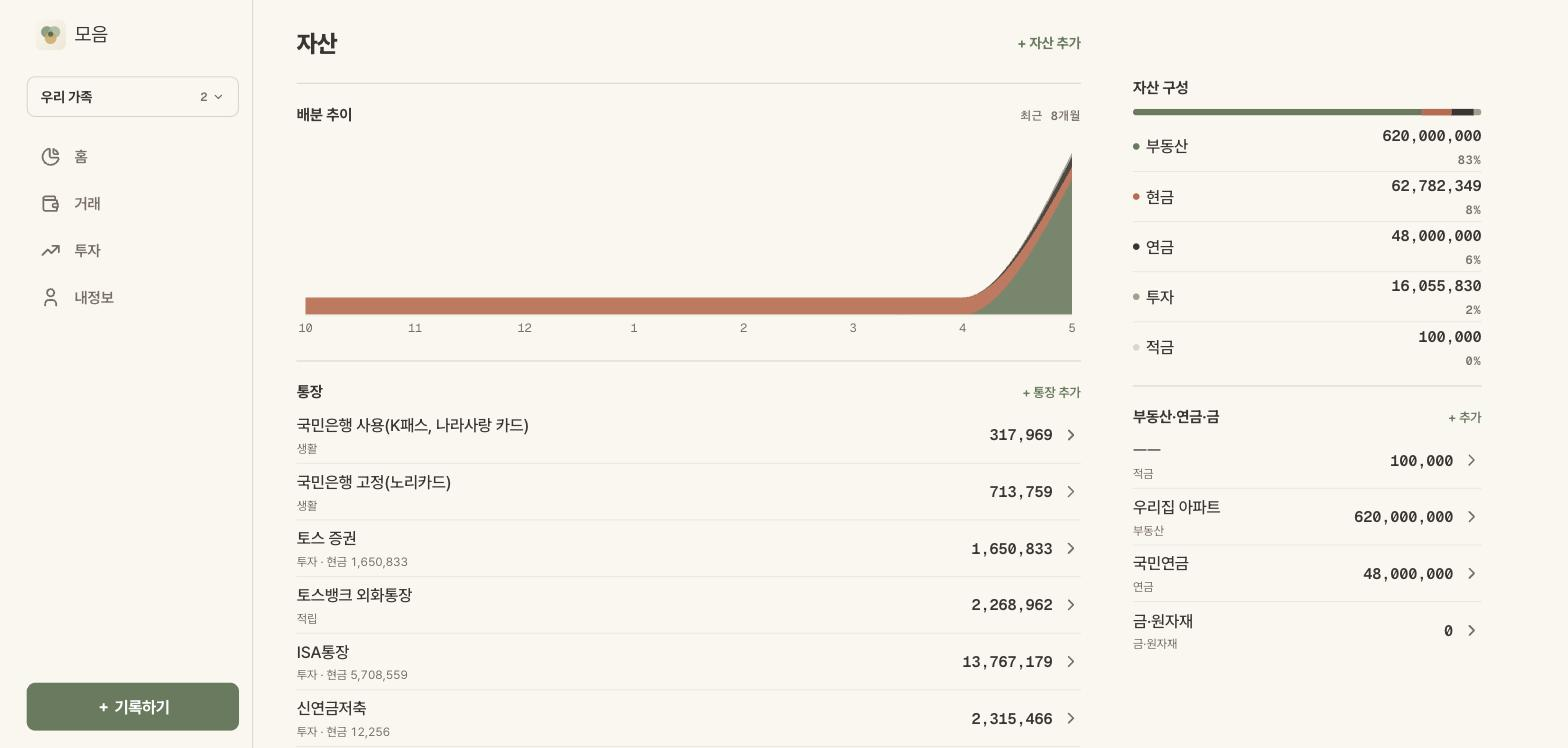
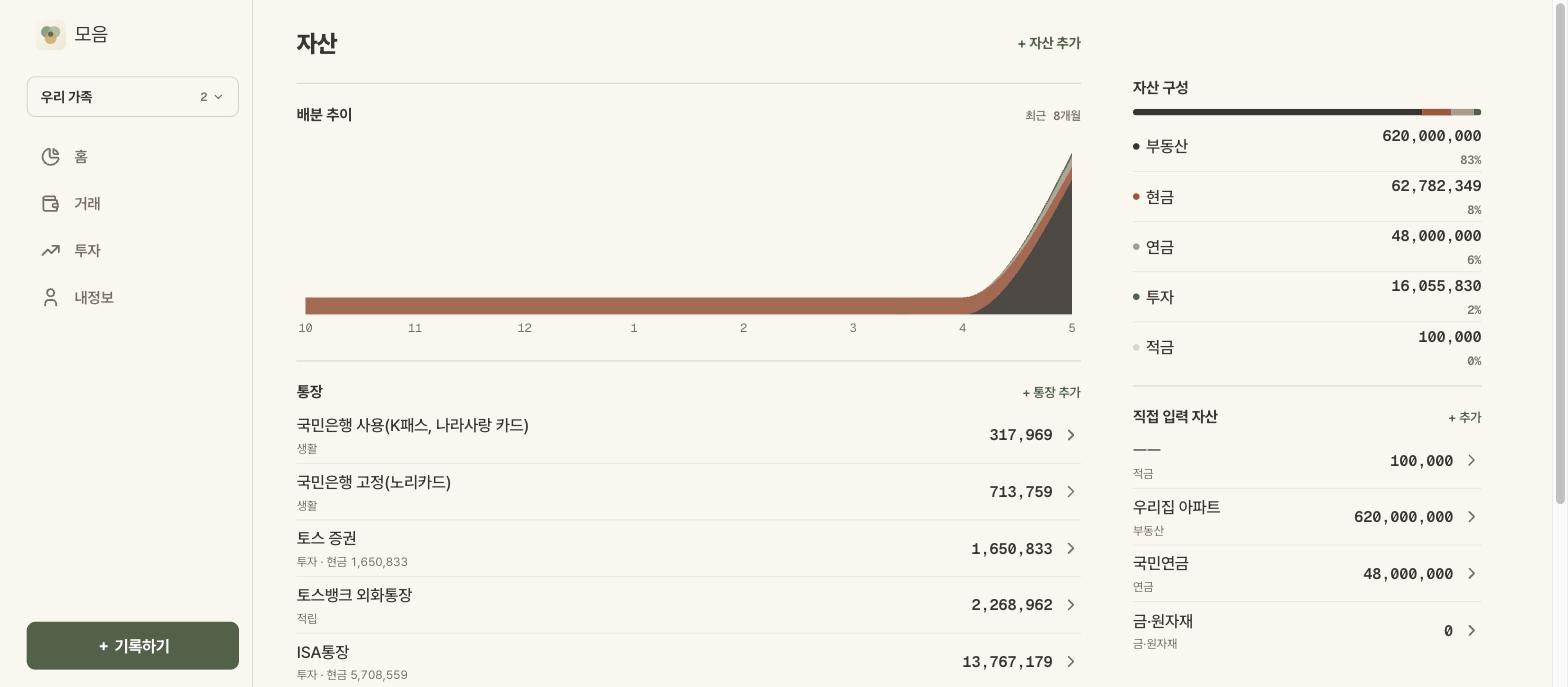
docs: 리디자인 배치2 S6 QA 결과·DESIGN 규칙·shot 갱신
qa/2.md 대조표와 픽스 검증, status S6 통과 기록. DESIGN.md 에 라이트 의미색 AA 셰이드,
자산군 고정 차트색, 시트·탭바 z 순서, 상태·AccentLink·모노 라벨 규칙 반영. shot 7장 재촬영.

diff --git a/docs/design/redesign-20260911/qa/2.md b/docs/design/redesign-20260911/qa/2.md
@@ -1,0 +1,71 @@
+# QA redesign-20260911 배치2 — 2026-09-12 @29fa6e7(감사) · 픽스 38814e6 · 82ac282 (사용자 ✅)
+토큰 신규 위반: 0(baseline 88 유지) · design-review(감사만 — clean tree 였지만 자동 커밋은 `/commit` 룰과 충돌, 배치1 과 같은 방식): **blocking 6 / 수정 17 / 보류 8** → 사용자 "전부" 결정, blocking 6 + 수정 17 처리 · 보류 중 H-1·H-7 결정 반영(나머지 6 은 문서 정정·배치3·기각) · typecheck 0 · lint 0 · 콘솔 에러 0(배치2 6경로 + 배치1 4화면 회귀, 390 iframe · 1440) · 가로 스크롤 0
+외부 시각: Codex(소스 감사 15건) + Claude 서브에이전트(일관성 12건) — 겹친 것: 상태(로딩·에러·빈) 미구현 · 추이선 0 변화 빨강 · 아이콘 버튼 44 미만 · 배분 차트 모바일 높이 · 삭제 버튼 색 · 문구 톤
+디자인 점수: 감사 전 B-(시안 불일치 3 · 상태 미구현) → 픽스 후 A-(남은 것 = 보류 8, 대비 토큰 H-1 이 가장 큼) · AI slop A(카드 0 · 그라데이션 0 · 3열 아이콘 그리드 0) · Litmus 7개 중 YES 6(카드 = 거래 라우트 fallback Card 1장, 배치3)
+
+## 대조표
+| ID | handoff | shot | 차이 | 판정 |
+|---|---|---|---|---|
+| invest/account | handoff/2/shots/Main.png · AccountDesktop.png | shots/invest-account.jpg · invest-account-desktop.jpg(재촬영) | 배치 일치. 종목 0 → 종목 비중 숨김(B-2 ✅) · 보유 종목 sub `▲ 17.0%` 로 평단 안 잘림(F-204 ✅) · 추이 -0.7% 완만(F-205 ✅) | ✅ |
+| invest/portfolio | Stock.png · StockDesktop.png (정본 Figma 45:130) | shots/invest-portfolio.jpg · invest-portfolio-desktop.jpg(재촬영) | hero 라벨·매매 행 색 Figma 일치 · "매매 내역"(B-6 ✅) · 칩 34~51px(F-202 ✅) · 뒤로 44(제목 위치 52 그대로) · 데스크톱 레일 요약 = 매입금액만(의도적, API 에 종목별 실현손익 누적 없음) | ✅ |
+| transactions/new | RecordSheet.png · RecordModalDesktop.png (정본 Figma 46:451) | shots/transactions-new.jpg(재촬영, 지출·이체) · 데스크톱 DOM 실측(560 · r12 · 가운데) | 시트가 탭바를 덮음(B-3 ✅, (100,820) = overlay) · 내용 높이로 줄고 푸터 바닥 16 위(F-217 ✅) · 다이얼로그 이름 "거래 추가" h2(F-201 ✅) · 금액 빈칸 + placeholder 0(F-215 ✅) · 세그 4개(의도적) · 금액 좌정렬 = Figma(H-2) · 통장 0개 안내(B-4 ✅, 코드) | ✅ |
+| wealth | Wealth.png · WealthDesktop.png (정본 Figma 46:195) | shots/wealth.jpg · wealth-desktop.jpg(재촬영) | 자산군 고정 색 = handoff 와 같음(부동산 짙은색·현금 테라코타·연금 회색·투자 세이지, B-1 ✅ — 홈 자산 구성도 같이) · 배분 추이 모바일 200(B-5 ✅) · 툴팁 글자 본문색 + 점(F-209 ✅) · 자산 행 "갱신일"·통장 "N종목" 없음(의도적, API 필드 없음) | ✅ |
+| 공통 상태 | States.png | 렌더 확인(390 iframe) | 로딩 = `SectionSkeleton`(페이지 hero+행 3 · 추이 차트 자리) · 에러 = `SectionBoundary` — 스냅샷 API 를 500 으로 막으니 "자산 추이 · 불러오지 못했어요 다시 시도", hero·보유 종목은 그대로 → 다시 시도로 복구 확인 · 빈 = "~없어요" 톤 통일 | ✅ |
+
+## blocking — 시안·계획 불일치
+| # | 발견 | 출처 | 수정안 |
+|---|---|---|---|
+| B-1 | 자산군 색이 **현재 비중 순위**(`chartColor(i)`)라, DESIGN §2-4 고정 매핑(chart-1 투자 · 2 현금 · 3 부동산 · 4 연금 · 5 기타)과 handoff 와 다름. 순위가 바뀌면 과거 추이 색 의미도 바뀜. 5위는 트랙색(hair)이라 빈 막대처럼 보임 | 나 · codex | `assetClassColor(c)` 고정 매핑 → wealth 구성 막대·행·배분 추이 + **홈 자산 구성(배치1)** 같이. 종목(StockShares)은 자산군이 아니라 순위 유지 |
+| B-2 | 종목 0 인 투자 계좌에서 종목 비중이 "현금 100%" 로 나옴(plan: 숨김) | 나 · subagent | account-portfolio-section: 활성 종목 0 이면 StockShares 렌더 안 함 |
+| B-3 | 기록 시트(모든 FormSheet)가 탭바(z500) 아래(z200)라 스크림 위로 탭바가 뜨고, 시트는 탭바 높이만큼 본문을 띄워 보정 중 | 나 | Drawer `zIndex` 를 탭바 위(600)로 올리고 `--bottom-tab-h` 보정(maxHeight·body padding·FormActions sticky bottom) 제거. FAB(150)은 그대로 시트 아래 |
+| B-4 | plan 상태 3종 미구현: 로딩 스켈레톤 · 섹션 에러 재시도 · 통장 0개 거래 폼 안내 | 나 · codex · subagent | 공용 `SectionSkeleton`(hero 28 + 행 3) · `SectionBoundary`(QueryErrorResetBoundary + EmptyText "불러오지 못했어요 · 다시 시도") **신규 컴포넌트 2개(승인 필요)** + 폼 통장 0개 EmptyText(+ 통장 추가) |
+| B-5 | 배분 추이 모바일 140px(plan·handoff 200) | codex · 나 | allocation-trend-chart 만 높이 200 고정 |
+| B-6 | 종목 상세 섹션 제목 "거래내역" ≠ Figma 45:130 "매매 내역" | 나 | ko/en 키 `portfolio.trade_history` 추가 |
+
+## 수정 — 품질(시안은 맞음)
+| # | 발견 | 심각도 | 출처 | 수정안 |
+|---|---|---|---|---|
+| F-201 | FormSheet 다이얼로그에 접근 가능한 이름 없음(제목이 일반 Text) | high(a11y) | codex | 제목 Text 에 id + Drawer `aria-labelledby` |
+| F-202 | 기간 칩 가로 22~31px(DESIGN 칩 히트 ≥32) — "전체" 22 | medium | 나 | FilterChip `paddingInline 6 · marginInline -6`(글자 위치 유지). 거래 필터 칩도 같이 |
+| F-203 | 추이선 마지막 점·라벨이 변화 0 에도 up(빨강) | medium | 나 · subagent | trend-line `last-prev >= 0` → `signColor(last-prev, "asset")` |
+| F-204 | 부호·% 표기가 한 화면에 4종(`▲ 765,900 +10.5%` · `+292,920 (▲ 17.01%)` · `-1.29%` · `-0.7%`) + 390 에서 보유 종목 메타 "평균 28…" 잘림 | medium | 나 · subagent | 보유 종목 sub = `fmtArrowPct(rate, 1)` 만(plan ⑦ "손익 ▲▼ %") · % 소수 1자리로 통일 |
+| F-205 | -0.7% 변화가 급락처럼 보임 — `trendYDomain` 이 변동폭 기준 패딩이라 작은 변화도 차트 높이 40% | medium(데이터 정직) | 나 | 패딩 하한 `max * 0.03` (TrendLine 쓰는 투자 메인·계좌·종목 추이 같이 바뀜, 홈 스파크라인은 별도라 무관) |
+| F-206 | 비활성 매도 버튼이 파란 글자 그대로(인라인 `c` 가 disabled 색 덮음) | medium | subagent | `c={canSell ? semanticColor("down") : undefined}` |
+| F-207 | 매도 행 실현손익이 meta 와 sub 에 두 번 | medium | subagent | Figma 45:130 대로 메타("· 실현 −X")만 두고 우측 sub 제거 |
+| F-208 | 아이콘 버튼 44 미만: 뒤로 36 · 새로고침 34 | medium | codex · subagent | ActionIcon 44(시각 크기 유지하려면 `::before` 히트 확장, FAB 패턴) |
+| F-209 | 배분 툴팁 금액 글자에 차트색 → chart-4/5 대비 2.64/1.43 | medium | codex | 글자 = text, 앞에 6px 색 점 |
+| F-210 | 삭제 버튼 `color="red"`(팔레트 밖) · 전체폭 light(plan: 푸터 좌측 subtle danger) | medium | codex · subagent | `variant="subtle" color="danger"` — 위치 변경은 8개 폼 공통이라 색만 이번에, 위치는 배치3 |
+| F-211 | 문구 톤 "보유 종목이 없습니다" 등 ↔ 다른 빈 상태 "~없어요" | low | 나 · subagent | 배치2 화면 키만: `portfolio.empty_holdings`(계좌 상세) · `no_sell_history`(누적 매매수익 시트) → "~없어요" |
+| F-212 | 투자 메인 오늘 날짜 UTC(`new Date().toISOString()`) — 자정~09시 KST 날짜 어긋남 | low(버그) | subagent | `todayIsoKst()` |
+| F-213 | `semanticColorFor`(portfolio-section) = signColor 복제 | low | subagent | signColor 로 교체 |
+| F-214 | 기간 칩이 개수 기준(1개월 = 최근 2점) — 박제 누락 달 있으면 기간이 늘어남 | low | codex | 날짜로 자르기(`date >= 기준월`) |
+| F-215 | 금액 입력 초기값 "0" 이 실제 값(지우고 입력) | low | 나 | 상태는 숫자 0 유지, 입력칸만 `value={amount || ""}` + placeholder "0"(스키마 무변경) — 새 평가액 칸도 같이 |
+| F-216 | 모노 라벨 `{11/16/.06em}` 인라인 11곳 · accent 헤더 링크 로컬 복붙 3곳 | low(일관성) | subagent | `.moeum-mono.moeum-label` 클래스 + `AccentLink` 공용 — 배치1 D-4 에서 미룬 "유틸 클래스" 흡수 |
+| F-217 | 기록 시트가 내용과 무관하게 늘 90dvh — Mantine `--drawer-height` 가 최대 높이로 풀려 푸터 아래 빈칸(재검증 중 발견) | medium | 나 | FormSheet content `height: auto` → 내용 높이(Figma 46:451 처럼 푸터가 바닥 16 위) |
+
+## 보류 · 결정 필요
+| # | 내용 | 제안 |
+|---|---|---|
+| H-1 | accent 링크 대비 4.35:1 · up 11~14px 4.48:1(AA 4.5 미달, 배치1 부터) + 추가 발견 expense 3.66 · income 4.22 | ✅ **결정(사용자): 한 단계 진하게** — 라이트 accent sage.7 · up danger.7 · expense terracotta.7 · income positive.6(down info.6 유지) + `primaryShade` 라이트 7. 실측 6.21 · 6.01 · 4.99 · 5.71 · 4.80, filled 버튼 흰 글자 6.69. DESIGN §2-2·§2-4 갱신 · Figma 변수 라이트 값 동기화 |
+| H-2 | 금액 입력 정렬: plan "우측" vs Figma 46:451 좌측 | Figma 정본 → 현행 유지, plan/2.md 문구 정정 |
+| H-3 | 추이선 월 축: DESIGN §2-4 "축 없음" vs Figma 25:198·45:130 월 눈금 | Figma 정본 → DESIGN 문구 정정("월 눈금 모노 11 · 축선 hair, 그리드 없음") |
+| H-4 | 매매 시트 submit filled danger/info · trade-form 로컬 `krw`·`gray-6` · 거래 라우트 fallback Card | plan "매매 폼 내부 = 배치3" → 배치3 폼 일괄 |
+| H-5 | 데스크톱 레일 두 벌 렌더(hiddenFrom/visibleFrom) — subagent 가 `useMediaQuery` 제안 | **기각** — 프로젝트 룰(SSR 불일치로 useMediaQuery 레이아웃 분기 금지). 쿼리 키 같아 요청 1회 확인 |
+| H-6 | 테마 shadows xs~lg rgba(palette 밖) | 기존 baseline 88 에 포함. 토큰 정리 때 |
+| H-7 | 수동자산 섹션 제목 "부동산·연금·금" 인데 적금도 들어감 | ✅ **결정(사용자): "직접 입력 자산"** / en "Manual assets" — 거래로 움직이는 통장과 성격 차이를 제목에. 시트 제목도 같이("직접 입력 자산 추가/수정") |
+| H-8 | plan 에 있지만 API 에 없는 필드: 자산 갱신일 · 통장 N종목 · 종목별 실현손익 누적 | 의도적 차이 — plan/2.md 정정. 필요하면 백엔드 후보(배치1 D-2 월간 투자손익과 함께) |
+
+## 룰 구멍 메모
+- S4 에서 Figma 가 plan 과 다르게 정한 것(금액 정렬·월 축)을 plan/DESIGN 에 되돌려 적는 단계가 없어 S6 에서 "시안 불일치" 로 다시 튀어나옴 → S4 체크리스트에 "plan·DESIGN 과 다른 Figma 결정 역반영" 추가 제안.
+- S5 화면 규칙 "빈·로딩·에러 상태 확인" 이 렌더 확인만 요구해서, 로딩·에러를 렌더로 못 만들면 그냥 통과됨(B-4) → "상태 컴포넌트 존재(코드) 확인" 으로 바꾸기 제안.
+- S5 가 DESIGN §2-4 색 매핑 대신 배치1 홈의 순위 규칙을 따라감(B-1) — 배치1 S6 도 못 잡음. 대조표 "차이" 열에 **색 매핑** 항목 고정 제안.
+- design-review 기본 터치 기준 44 vs DESIGN 텍스트 링크·칩 32 예외 — 감사 스크립트 기준을 32 로 두고 아이콘 버튼만 44 로 따로 봐야 오탐이 없음.
+- 백그라운드 탭에서 zoom 캡처가 탭바(fixed)를 가끔 빼먹음 → 겹침 판정은 `elementFromPoint` 로.
+- 백그라운드 탭 iframe 에선 React Query 재시도가 `paused`(document hidden) · 연쇄 타이머 1분 단위 → 에러 상태 검증은 iframe `visibilityState` 를 visible 로 덮고 `visibilitychange` 발사.
+- dev 서버가 몇 시간 뒤 파일 감시를 놓침(touch 도 무반응) → 픽스 재검증 전 "변경한 토큰이 computed 에 반영됐는지" 1회 확인 후 아니면 재시작(배치1 SSR 500 메모와 같은 계열).
+
+## 픽스 검증 (2026-09-12, 38814e6 · 82ac282)
+typecheck 0 · lint 0 · 토큰 신규 0(baseline 88) · 콘솔 에러 0(9경로 390, dev 서버 재시작 후 재확인 — 파일 감시가 멈춰 H-1 변경이 안 잡혔던 것) · H-1 실측 accent 6.21 · up 6.01 · income 5.71 · expense 4.99 · down 4.80 · 버튼 흰 글자 6.69 · shots 7장 H-1 반영 후 재촬영(wealth · wealth-desktop · invest-account · invest-account-desktop · invest-portfolio · invest-portfolio-desktop · transactions-new)
+신규 공용: `SectionSkeleton` · `SectionBoundary` · `AccentLink`(section 12/600 · header 13/700) · `.moeum-mono.moeum-label` · `ASSET_CLASS_COLOR`(portfolio/constants.ts — 옛 hex 매핑 자리를 재사용, 삭제 후보에서 빠짐)
+공통 영향: 탭바 z 500→190 · 시트 탭바 보정 제거(FormSheet·FormActions·가계부 전환 Drawer) · % 기본 소수 1자리(fmtSignedPct·fmtArrowPct — 홈 "+6.1%" 등 배치1 화면도) · FilterChip 가로 히트(거래 필터 칩도) · 홈 자산 구성 막대 고정 색
+남은 것: 보류 H-2·H-3·H-8(plan·DESIGN 문구 정정) · H-4(배치3 폼) · H-6(토큰 정리) — H-1·H-7 은 결정 반영, H-5 기각 · 평가조정 생성 힌트가 입력 전에도 "감소 X" 로 뜨는 기존 동작(이번 범위 밖, 배치3 폼) · `value-trend-chart.tsx` 삭제(사용자 확인)

diff --git a/DESIGN.md b/DESIGN.md
@@ -40,16 +40,18 @@
 ### 2-2. 팔레트 (Mantine 튜플, 셰이드 **항상 명시**)
 | 이름 | 역할 | 라이트 base | 다크 base | 튜플 |
 |---|---|---|---|---|
-| `sage` (primary) | 행동: 탭 활성·버튼·링크·추이선·브랜드 | `sage.6 #647A5C` | `sage.4 #93AC85` | 기존 유지 |
-| `positive` | **수입** · 잔액 양수 · 저축 | `positive.5 #2F855A` | `positive.3 #73B88E` | 기존 유지 |
-| `terracotta` | **지출** · 잔액 음수 | `terracotta.6 #C2674A` | `terracotta.4 #E5B197` | 기존 유지 |
-| `up` | **투자 상승 · 매수 · 총자산 증가** (한국식) | `up.5 #DC2626` | `up.4 #F87171` | = `danger` 튜플 별칭 |
-| `down` | **투자 하락 · 매도 · 총자산 감소** | `down.5 #2563EB` | `down.4 #60A5FA` | = `info` 튜플 별칭 |
+| `sage` (primary) | 행동: 탭 활성·버튼·링크·추이선·브랜드 | `sage.7 #4F6149` | `sage.4 #93AC85` | 기존 유지 |
+| `positive` | **수입** · 잔액 양수 · 저축 | `positive.6 #266E4A` | `positive.3 #73B88E` | 기존 유지 |
+| `terracotta` | **지출** · 잔액 음수 | `terracotta.7 #A4543B` | `terracotta.4 #E5B197` | 기존 유지 |
+| `up` | **투자 상승 · 매수 · 총자산 증가** (한국식) | `up.7 #B91C1C` | `up.4 #F87171` | = `danger` 튜플 별칭 |
+| `down` | **투자 하락 · 매도 · 총자산 감소** | `down.6 #2563EB` | `down.4 #60A5FA` | = `info` 튜플 별칭 |
 | `danger` | 에러·삭제·파괴적 확인 | `#EF4444` | | 기존 |
 | `warning` | 주의·임박·고정지출 태그 | `#F59E0B` | | 기존 |
 | `purple` | 이체·평가조정 | `#8B5CF6` | | 기존 |
 | `gray` | 웜 그레이 | 기존 튜플 | | 기존 |
 | `dark` | 다크 표면 튜플(신규) | — | 0 `#F1EAE0` · 1 `#D9D0C3` · 2 `#A8998A` · 3 `#7A6F63` · 4 `#3A322B` · 5 `#332C26` · 6 `#2A241F` · 7 `#1F1A16` · 8 `#171310` · 9 `#110E0B` | 신규 |
+
+라이트 base 는 **글자 대비 AA(4.5:1, bg `#FAF6EF`) 기준**으로 고른 셰이드다 — accent 6.21 · income 5.71 · expense 4.99 · up 6.01 · down 4.80. 이전 셰이드(sage.6 4.35 · terracotta.6 3.66 · positive.5 4.22 · danger.6 4.48)는 12~14px 링크·금액에서 미달(배치2 S6 H-1). `primaryShade` 라이트도 7 로 맞춰 filled 버튼 = accent. 다크는 전부 통과라 그대로.
 
 `up`/`down` 은 `danger`/`info` 튜플의 **별칭**(`colors.up = danger`). 스킴별 base 셰이드가 다르므로 화면 코드는 **의미 이름 + 셰이드 대신 CSS 변수** `--moeum-accent` `--moeum-income` `--moeum-expense` `--moeum-up` `--moeum-down` 을 우선 쓴다(css-variables.ts 가 스킴별 값 발급).
 
@@ -68,11 +70,12 @@
 ### 2-4. 차트
 | 변수 | 라이트 | 다크 | 용도 |
 |---|---|---|---|
-| chart-1 | sage.6 | sage.4 | 추이선(총자산·평가액), 투자 |
-| chart-2 | terracotta.6 | terracotta.4 | 현금 |
+| chart-1 | sage.7 | sage.4 | 추이선(총자산·평가액), 투자 |
+| chart-2 | terracotta.7 | terracotta.4 | 현금 |
 | chart-3 | text | text | 부동산 |
 | chart-4 | gray.4 `#A99C8D` | dark.3 | 연금 |
 | chart-5 | hair | hair | 기타·트랙 |
+자산군 색은 **고정 매핑**(`ASSET_CLASS_COLOR`: 투자 1 · 현금 2 · 부동산 3 · 연금 4 · 금·적금·기타 5) — 순위로 매기면 과거 추이 색 의미가 바뀐다(배치2 S6 B-1). 종목 비중(StockShares)만 자산군이 아니라 순위(상위 4 = 1~4, 현금 5).
 추이선은 1.5px 단색, 그라데이션 채움 없음, 축·그리드 없음, 마지막 점만 `up`/`down` 색 3px. 점을 탭해 상세로 가는 선(홈 총자산)만 각 점 2px `chart-1` + hover 4px `accent`. 툴팁은 surface + hair 테두리.
 
 ## 3. 타이포그래피
@@ -97,6 +100,8 @@
 |---|---|
 | `HeroAmount` | 카드 밖. `2026.09.11 기준` 모노 캡션 → 라벨 → 큰 숫자+원 → `DeltaPill` + "지난달보다". blur 토글 옵션 |
 | `Section` | `Card` 대신 사용. 상단 헤어라인 + 헤더 행(제목 14/700 · 우측 링크 accent 12/600) + children |
+| `AccentLink` | accent 텍스트 링크 — `section` 12/600(섹션 헤더) · `header` 13/700(페이지·서브 헤더 "+ 추가"·"수정"). 히트 32(패딩+음수 마진). 로컬 스타일 복붙 금지 (배치2 S6) |
+| 모노 라벨 | 11/16 · `.06em` 은 `className="moeum-mono moeum-label"` 한 곳(globals). 인라인 `{fontSize:11, letterSpacing}` 복붙 금지 (배치2 S6) |
 | `ListRow` | 46px, 제목 15/500(Figma ListRow 11:2 기준, S6 정정) / 메타 11 dimmed, 우측 금액 모노 14/600(의미색), 행 구분 `--moeum-hair-2`, 아이콘 박스 없음(카테고리 색은 제목 앞 6px 점) |
 | `DeltaPill` | 배경 없음. `▲ 3,240,000` 모노 + 색. `asset`(up/down) / `ledger`(income/expense) |
 | `StatRow` | "왜 늘었나" 2행: 제목/메타 + 우측 금액 + 2px 기여 막대(accent / up) |
@@ -104,9 +109,10 @@
 | 필터 칩 | 활성 = accent 텍스트 + 하단 2px 언더라인(배경 채움 없음). 히트 ≥32 |
 | 세그먼트 | Mantine SegmentedControl 그대로 — 트랙 surface-2 + 인디케이터 surface(채움). 화면 전환(목록/달력·화면 모드)에만, 필터에는 칩 (S6 D-5 결정) |
 | 셸 | 모바일 헤더 48(브랜드 accent 15/800 · 우측 모노 기준일 · 가계부 pill) · 탭바 64(bg 배경 · 상단 hair · 활성 accent) · `＋ 기록` 8px 라운드 accent 버튼 40px(탭바 위 우측, 홈·거래) / 데스크톱 사이드바 220(활성 = accent-soft 배경 + accent 텍스트, 하단 "기록하기") |
-| 시트 · 모달 | 바텀시트 448 · 상단 16 · 핸들 40×4 hair / 데스크톱 모달 560(같은 Drawer 를 CSS `@media` 로 가운데), surface 배경 |
+| 시트 · 모달 | 바텀시트 448 · 상단 16 · 핸들 40×4 hair / 데스크톱 모달 560(같은 Drawer 를 CSS `@media` 로 가운데), surface 배경, 높이는 내용에 맞춤(최대 90dvh, 넘치면 안에서 스크롤 + 푸터 sticky). 제목은 `Drawer.Title`(다이얼로그 이름). **시트가 탭바를 덮는다** — z: 헤더 30 < FAB 150 < 탭바 190 < Drawer/Modal 200 < 드롭다운 300·1100 (배치2 S6 B-3) |
+| 상태 | 로딩 = `SectionSkeleton`(페이지 `hero rows={3}` · 보조 섹션 `rows`/`chart`, 실제 레이아웃 모양) · 에러 = 보조 섹션은 `SectionBoundary`(섹션 제목 + "불러오지 못했어요 · 다시 시도"), 화면 주 쿼리는 (user)/error.tsx · 빈 = `EmptyText`(문장 "~어요" + 행동 링크) |
 | 폼 필드 | filled surface-2 · 높이 44 · 라운드 8. 라벨 13/500 dim(설명 12 보다 커야 함 — 배치2 S5 피드백으로 11→13), 금액 입력만 모노 28 · 높이 56. 세그먼트에 `color` 채움 금지(흰 인디케이터 위 흰 글자) → 의미색은 라벨 글자에 |
-| 버튼 | filled = accent + `on-accent`(라이트 흰 / 다크 딥브라운), outline = hair 테두리, subtle = accent 텍스트. 높이 36/44/52 |
+| 버튼 | filled = accent + `on-accent`(라이트 흰 / 다크 딥브라운), outline = hair 테두리, subtle = accent 텍스트. 높이 36/44/52. 삭제 = subtle `danger`. 아이콘 버튼 히트 44 |
 
 ## 6. 모션
 | 상황 | 값 |

diff --git a/docs/design/redesign-20260911/status.md b/docs/design/redesign-20260911/status.md
@@ -1,5 +1,5 @@
 # design-flow status — redesign-20260911
-재개: 배치2 S6 ⬜ — S5 ✅(커밋 5개) → 토큰 검사 · /design-review(감사만) · qa/2.md 대조표
+재개: 배치3 S3 ⬜ — 배치2 S6 ✅(픽스 38814e6 · 82ac282) → 배치3 대상 화면 plan/3.md(폼 일괄: 매매 폼 내부·삭제 위치·평가조정 힌트 포함)
 look=교체(Warm Ledger→Statement·Warm)  figma=full  fileKey=j1xaab6icKdvERz6SbU6E0 (https://www.figma.com/design/j1xaab6icKdvERz6SbU6E0)  lib=같은 파일 로컬(혼자·게시 불필요)  baseline=token-baseline.txt
 
 | 단계 | 상태 | 산출물·식별자 | 날짜 |
@@ -13,6 +13,7 @@ look=교체(Warm Ledger→Statement·Warm)  figma=full  fileKey=j1xaab6icKdvERz6
 | 배치2 S3 | ✅ | 계획표 plan/2.md ✅(invest/account · invest/portfolio · transactions/new=QuickAddSheet · wealth) · 가설 = 배치1 pick A+C 확장(재생성 없음) · handoff/2 = 11 아트보드(*.dc.html + gen.py(배치1 헬퍼 exec 재사용) + canvas.json) + shots/11 png(헤드리스 크롬 390·1440) · 캔버스 https://claude.ai/code/artifact/844e588b-3a57-41be-aebc-4e92ef6306bc · pick=A+C @05448fd · 사용자 ✅ 2026-09-12 | 2026-09-12 |
 | 배치2 S4 | ✅ | node-id 4/4 (페이지 "배치2 · 390" 41:364 — invest/account 41:365 · invest/portfolio 45:130 · transactions/new 46:451 · wealth 46:195) · get_design_context 4/4 OK(var(--moeum-*) + 컴포넌트 설명, 미바인딩 solid 0) · 배치1 로컬 컴포넌트 재사용(ListRow·SectionHeader·StatGrid3·CompositionBar·Button·TabBar), 신규 컴포넌트 0 · 프레임은 hug 높이(계좌 1069·종목·자산 스크롤 전체 표시, 기록 시트는 844 고정 + 스크림) · 계좌 상세에 plan ⑥ 누적 매매수익 행 포함(handoff 에는 생략됐던 것) · 사용자 ✅ 2026-09-12 | 2026-09-12 |
 | 배치2 S5 | ✅ | 코드 4/4 · 커밋 공통 69b94e8 · invest/account 463b05a · invest/portfolio f499775 · transactions/new 03e493f · wealth c501efc — 공통: TrendLine(추이선 3벌 → 1, 기간 칩·마지막 값·툴팁 옵션) · SubHeader 48/22 · FormSheet 16 라운드 + 데스크톱 모달 560(CSS `@media`, useMediaQuery 금지 룰) · FormActions 취소 outline(hair) · 인풋 라벨 dim(theme InputWrapper) · FAB z 300→150(열린 시트 버튼 가림 — 배치1 버그) · 사용자 피드백 2건: 인풋 라벨 11→13(설명보다 작았음, DESIGN §5 폼 필드 추가 · Figma 라벨 5개 갱신) · 매매 세그먼트 활성 "매수" 사라짐(color 채움 + 흰 인디케이터) → color 제거, 라벨 글자 up/down / invest/account 우 레일 · invest/portfolio 재배치(날짜 헤더·실현손익 행·매수/매도 outline) · transactions/new 유형 세그먼트 → 큰 금액 28/56 → 통장+잔액 힌트 순 · wealth PageTitle + 구성 막대 + 적층 영역(자산 구성 순위 색) · 검증: typecheck 0 · lint 0 · 토큰 신규 0(baseline 88) · 콘솔 0(4화면+투자 메인) · computed hero 28 / StatGrid 18 / 제목 22 / 버튼 44 · 백그라운드 탭이라 모바일은 390 iframe 으로 촬영 · 미삭제(참조 0, 삭제 확인 대기): wealth/components/value-trend-chart.tsx · portfolio/constants.ts | 2026-09-12 |
+| 배치2 S6 | ✅ | qa/2.md @docs 커밋(사용자 ✅ 2026-09-12 "커밋까지") · 픽스 H-1 38814e6 · QA 82ac282 — 토큰 신규 0 · typecheck·lint 0 · 콘솔 0(9경로) · /design-review 감사만 + Codex·서브에이전트 외부 시각 · blocking 6(자산군 색 고정 매핑 · 종목 0 비중 숨김 · 시트가 탭바 덮음 · 로딩/에러/통장0 상태 · 배분 차트 200 · 매매 내역 제목) + 수정 17 전부 처리 · 보류 결정 H-1 라이트 의미색 한 단계 진하게(AA) · H-7 "직접 입력 자산" · 에러 경계 렌더 검증(500 주입 → 섹션 재시도 → 복구) · shots 7장 재촬영 · Figma 변수 라이트 6개 + 46:195 섹션 제목 동기화 · value-trend-chart.tsx 삭제 · 남은 보류: H-2·H-3·H-8 문서 정정, H-4 배치3, H-6 토큰 정리 | 2026-09-12 |
 | 마감 | ⬜ | qa/final.md | |
 
 상태: ⬜ 미완 · 🟡 진행 중 · 🟡 산출물 있음·승인 전 · ✅ 통과(식별자 필수) · ⏭ 해당없음. 식별자가 바뀌면 그 뒤 ✅ 는 ⬜ 로. 배치가 늘면 행을 복사한다.
